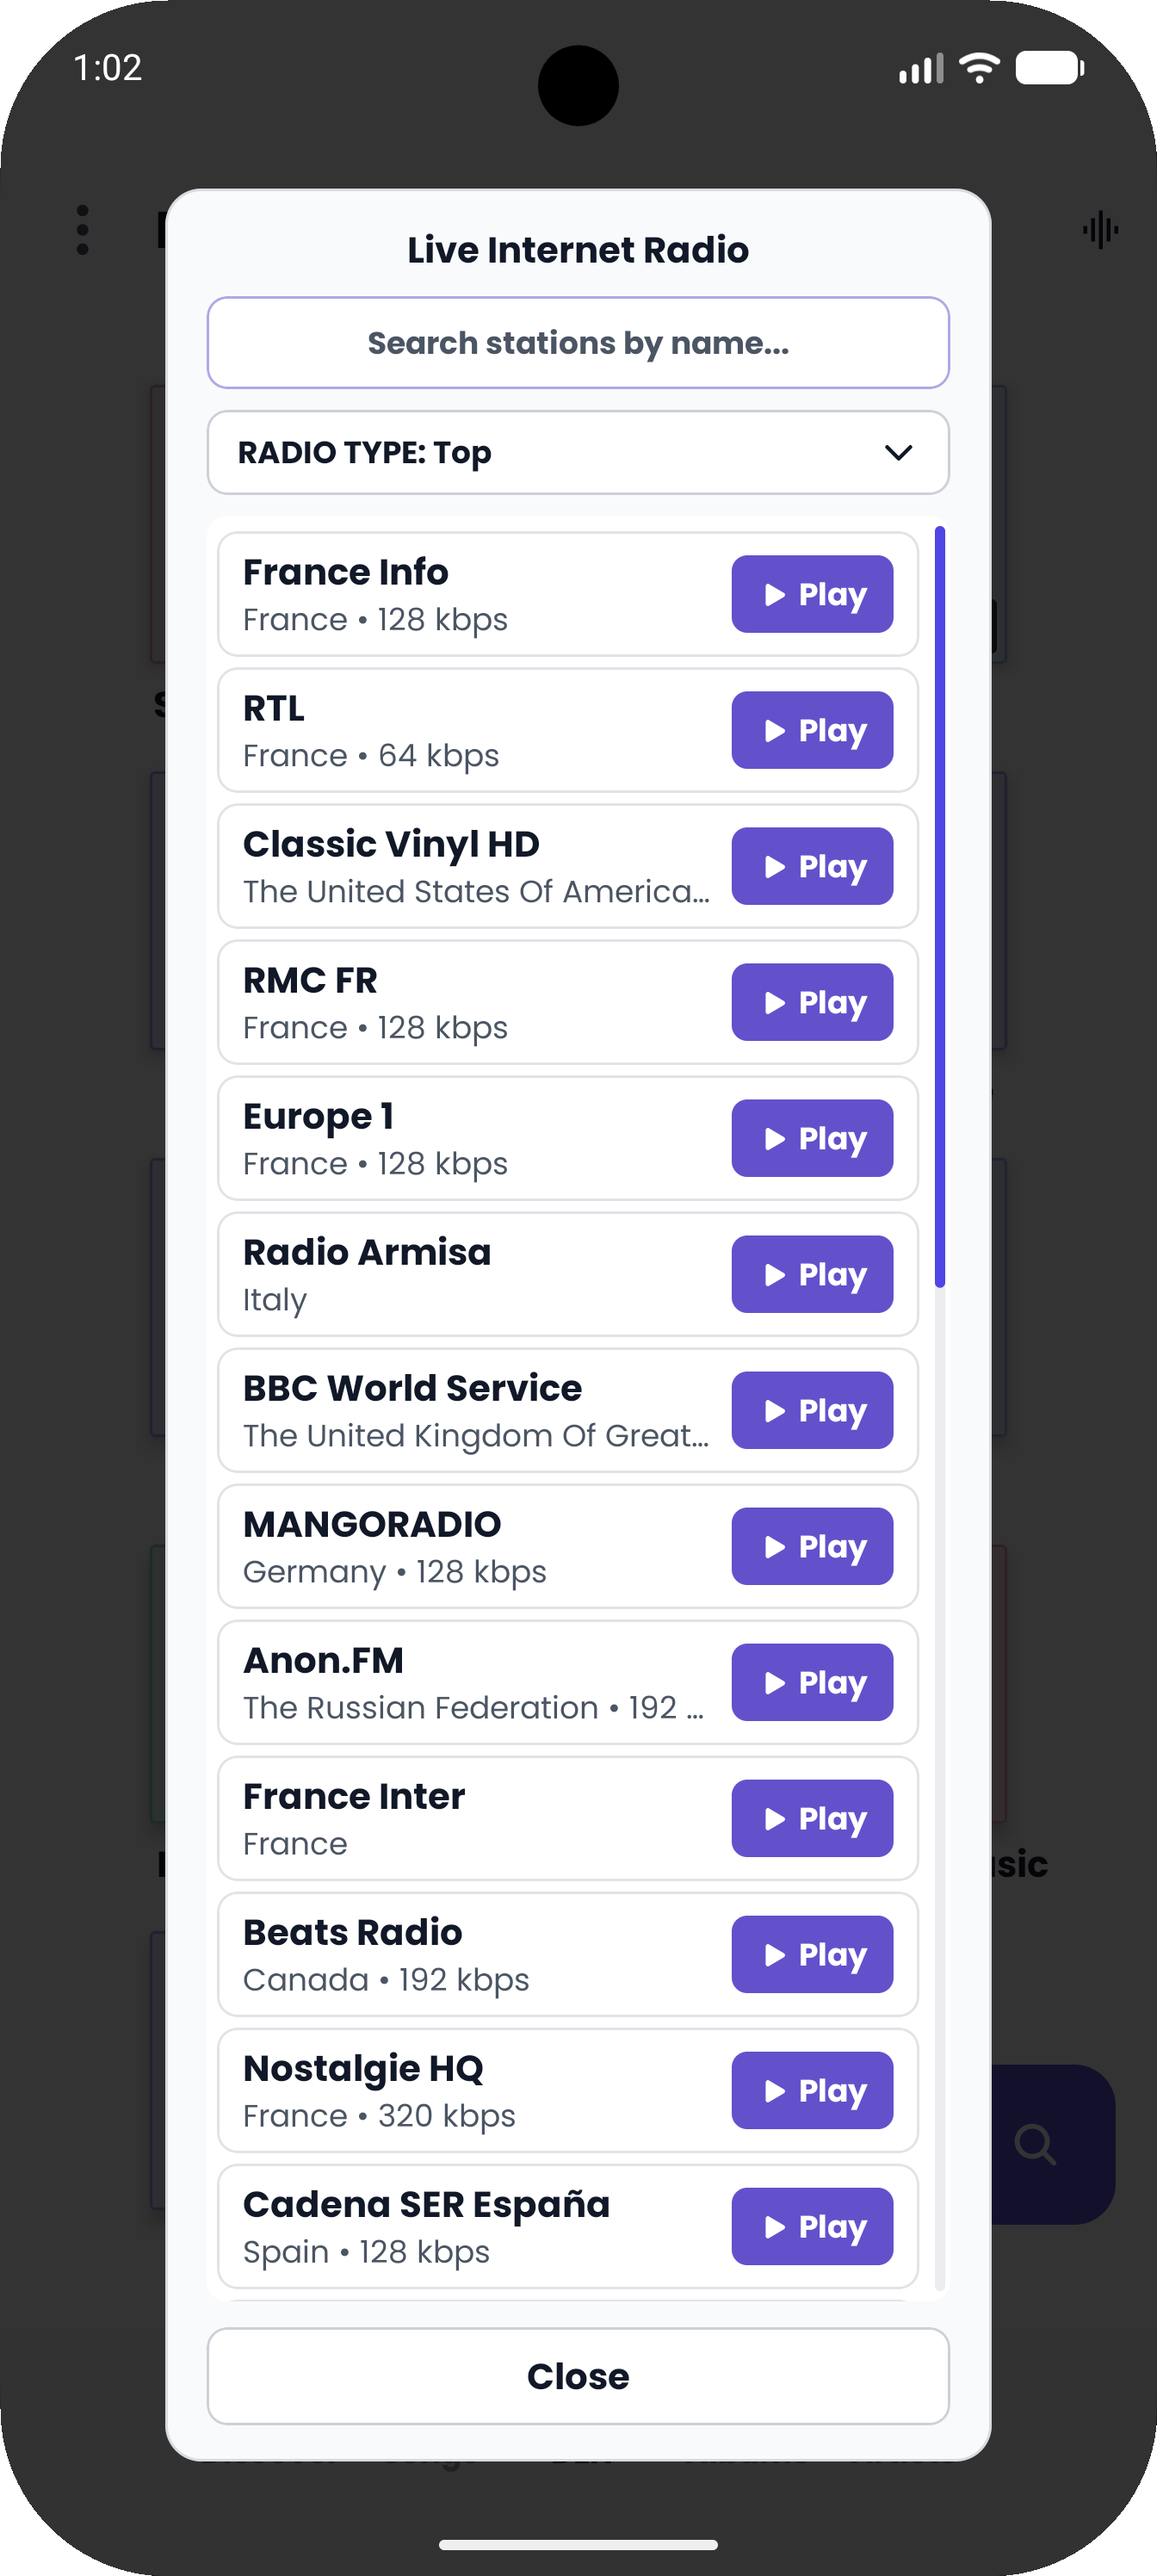
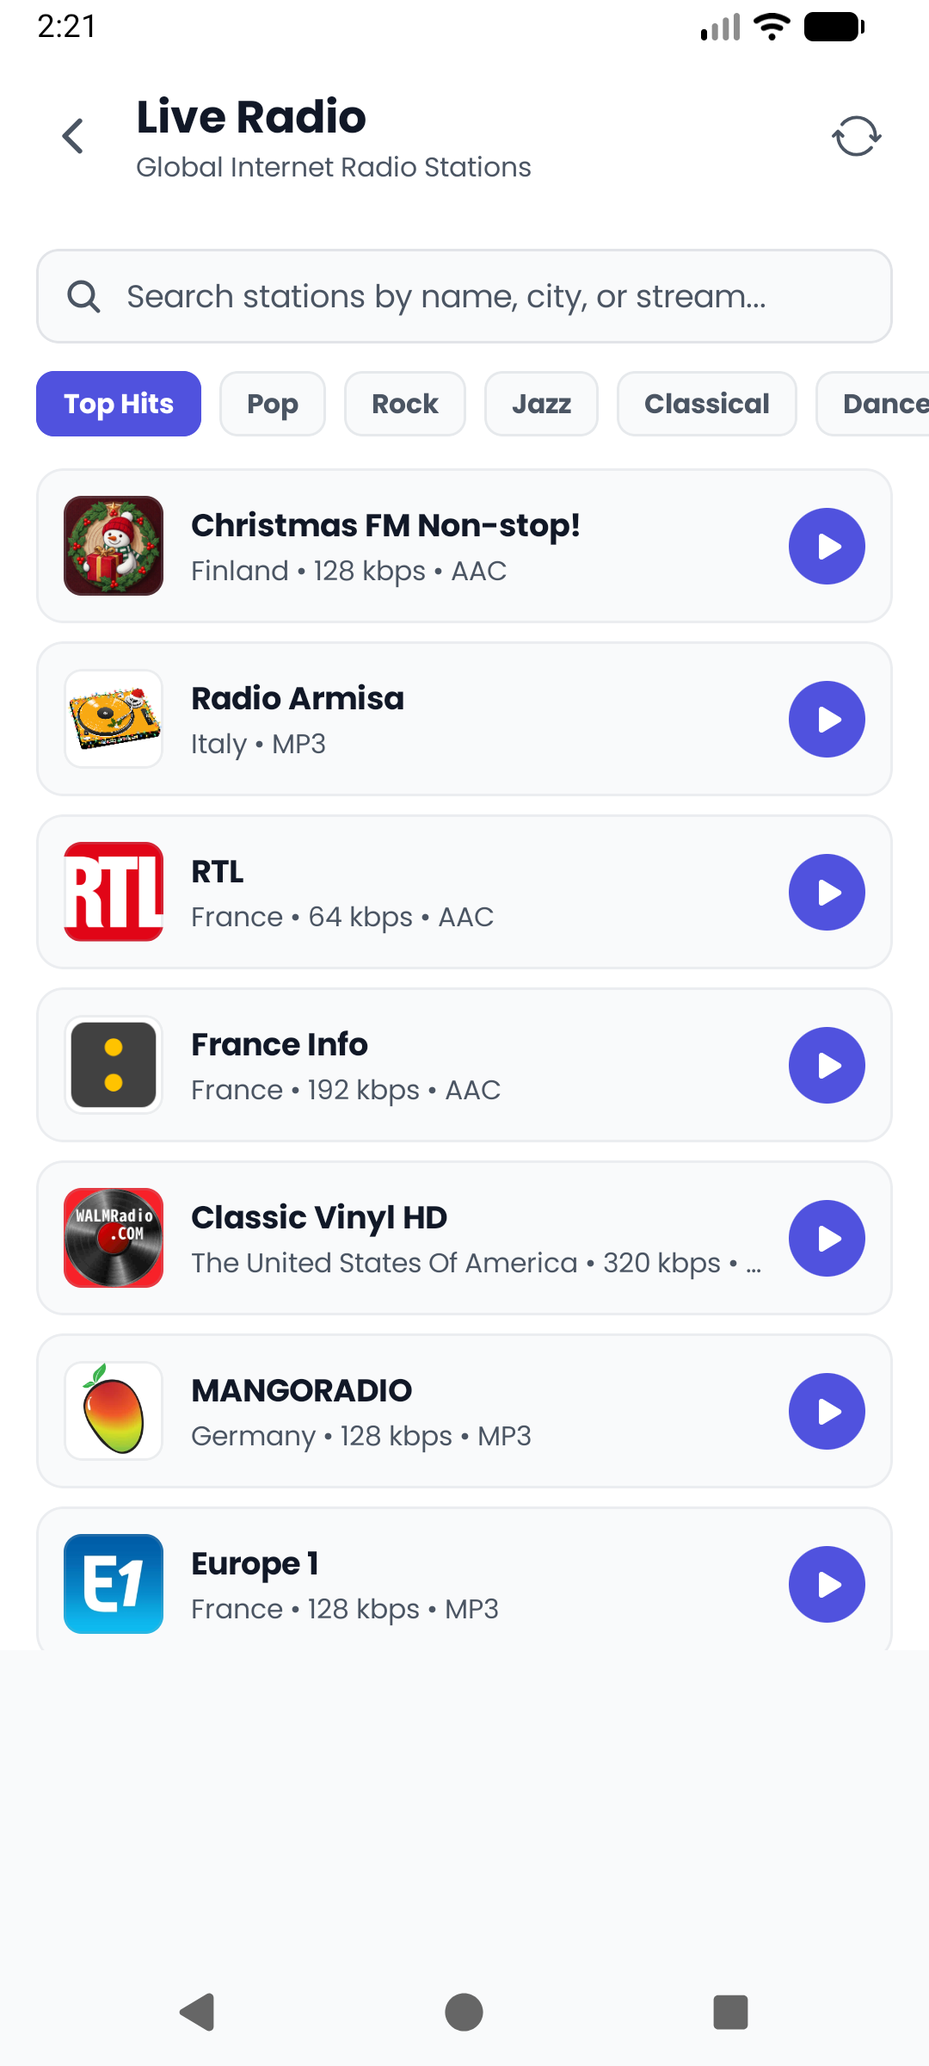
docs: update Live Radio screenshot, feature description in README and architecture guide

diff --git a/docs/ARCHITECTURE.md b/docs/ARCHITECTURE.md
@@ -115,9 +115,10 @@ When a file is registered in the Vault, the system follows a **Synchronous atomi
 - **`SpotifyClient.kt` & `AppleMusicClient.kt`**: Fetches tracklists from public Spotify OAuth Web API endpoints and parses embedded Apple Music JSON-LD metadata.
 - **`PlaylistImportEngine.kt` & `AppleMusicImportEngine.kt`**: Converts extracted tracklists, matches audio streams via YouTube Music (`SynapService.searchPage`), and saves the imported playlist into Room DB.
 
-### 4.2 Live Internet Radio Engine (`com.synap.music.network` & `com.synap.music.ui.components.themed`)
-- **`RadioBrowserClient.kt`**: Connects to the open-source RadioBrowser REST API (`https://de1.api.radio-browser.info/json/`).
-- **`LiveRadioDialog.kt`**: Interactive radio station browser with 16 radio categories (Pop, Rock, Jazz, Classical, News, Dance, Chill, Lofi, 80s, 90s, etc.), high-contrast borders, custom Radio Tower brand icons (`radio_tower.xml`), and real-time visual scrollbars.
+### 4.2 Live Internet Radio Engine (`com.synap.music.network` & `com.synap.music.ui.screens.liveradio`)
+- **`RadioBrowserClient.kt`**: Connects to the open-source RadioBrowser REST API (`https://de1.api.radio-browser.info/json/`) for discovering, searching, and caching global live FM/AM and online web radio broadcasts.
+- **`LiveRadioScreen.kt` & `liveRadioRoute`**: Dedicated full-screen radio browser (`Route0`) with instant station search, horizontal genre filter chips (Pop, Rock, Jazz, EDM, Chill, Lofi, Synthwave, etc.), live stream bitrate/codec badges, animated playing indicator, and direct ExoPlayer streaming with ICY metadata.
+- **`LiveRadioDialog.kt`**: Deprecated legacy dialog component, retained for backwards compatibility.
 
 ### 4.3 WebDAV Network Storage Engine (`com.synap.music.webdav`)
 - **`WebDavClient.kt` & `WebDavConfig.kt`**: Executes `PROPFIND` directory listings over OkHttp to crawl remote NAS servers for audio files (`.flac`, `.wav`, `.mp3`, `.m4a`, `.opus`, etc.).

diff --git a/README.md b/README.md
@@ -202,7 +202,7 @@ Search artist profiles, browse full discographies, or navigate directly to artis
 ---
 
 ### 📻 Live Internet Radio Browser
-Search and stream tens of thousands of live global FM/AM and online web radio stations via RadioBrowser API.
+Dedicated full-screen radio browser with instant station search, horizontal genre filter chips (Pop, Rock, Jazz, EDM, Lofi, Synthwave, etc.), live stream bitrate badges, and direct ExoPlayer playback via RadioBrowser API.
 
 <p align="center">
   <img src="fastlane/metadata/android/en-US/images/phoneScreenshots/radio.png" width="180" alt="Live Radio" />
